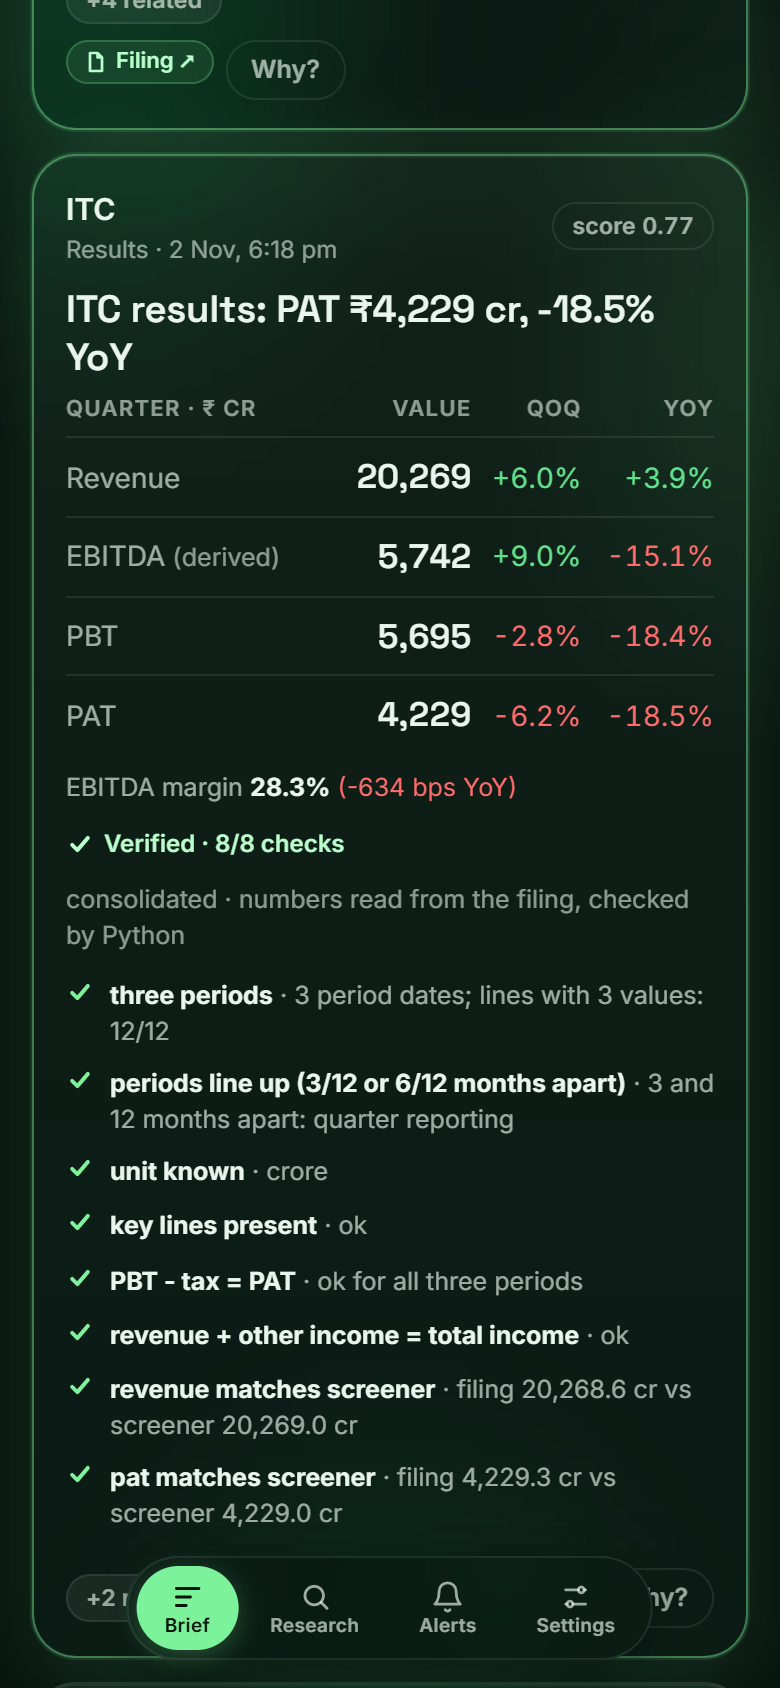
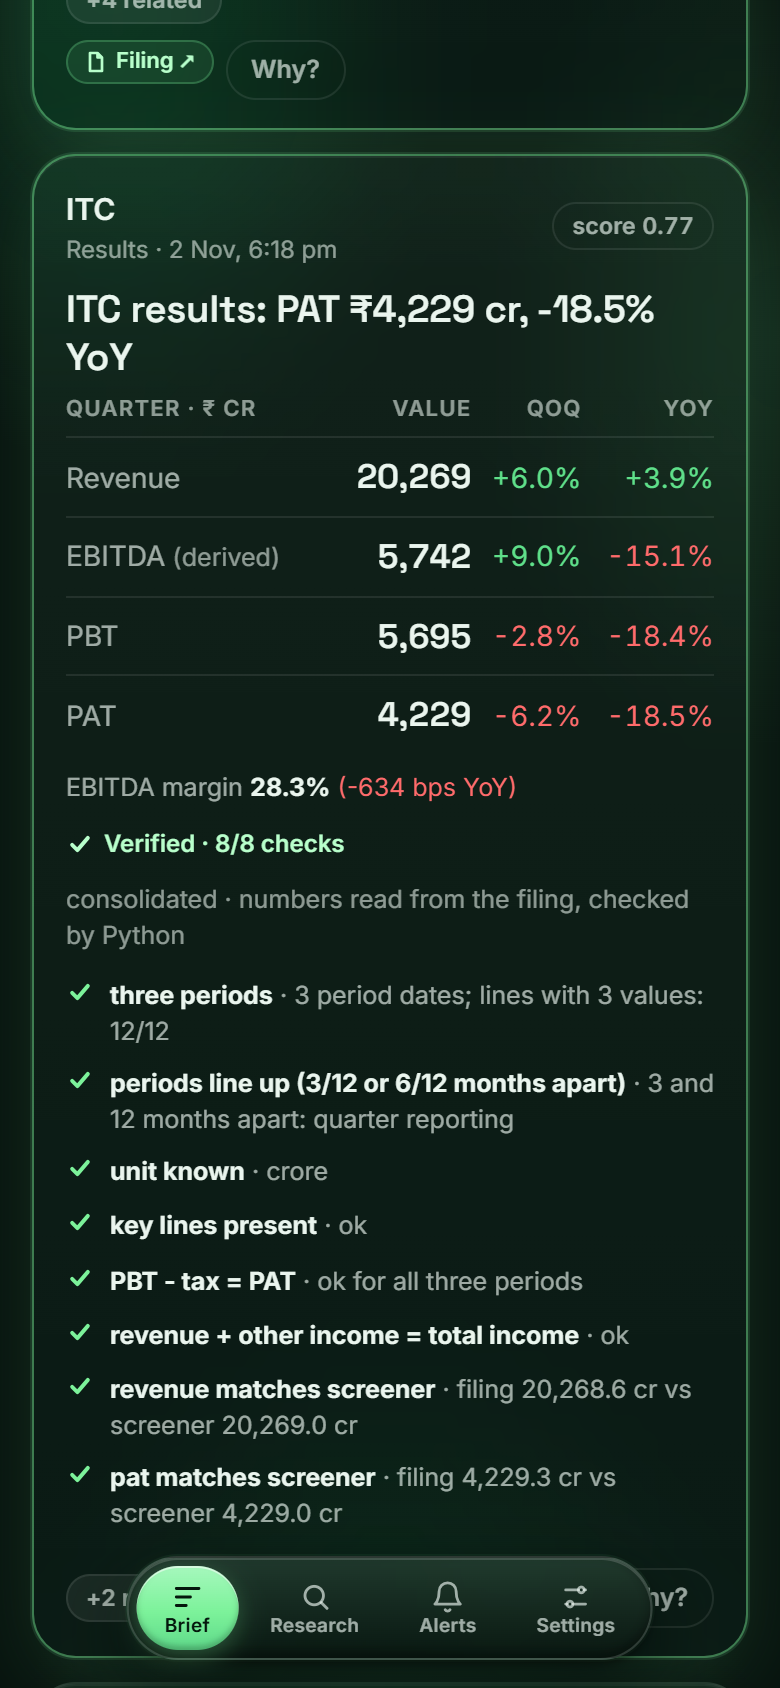
Bottom bar with depth: lit top edge, shaded underside, lift shadow, raised pill

Changed region(s): [[0.1538, 0.9242, 0.5538, 0.9858], [0.7385, 0.9242, 0.8308, 0.955]]

diff --git a/frontend/src/styles.css b/frontend/src/styles.css
@@ -137,17 +137,24 @@ h1, h2, h3 { margin: 0; font-weight: 600; }
   bottom: calc(var(--safe-bottom) + 14px);
   display: flex; gap: 2px; padding: 4px;
   border-radius: var(--pill);
-  background: rgba(10, 24, 18, 0.82);
-  border: 1px solid var(--line);
+  background: linear-gradient(180deg, rgba(34, 58, 46, 0.92), rgba(9, 22, 16, 0.94));
+  border: 1px solid rgba(255, 255, 255, 0.14);
   backdrop-filter: blur(24px) saturate(150%); -webkit-backdrop-filter: blur(24px) saturate(150%);
-  box-shadow: 0 10px 28px rgba(0,0,0,0.4);
+  box-shadow:
+    inset 0 1px 0 rgba(255, 255, 255, 0.16),      /* lit top edge */
+    inset 0 -2px 6px rgba(0, 0, 0, 0.35),         /* shaded underside */
+    0 2px 4px rgba(0, 0, 0, 0.35),                /* contact shadow */
+    0 14px 34px rgba(0, 0, 0, 0.55),              /* lift */
+    0 0 0 1px rgba(124, 242, 154, 0.06);
 }
 .nav button {
   position: relative; display: flex; align-items: center; gap: 7px;
   height: 46px; padding: 0 15px; border-radius: var(--pill); color: var(--text-2); font-size: 13.5px; font-weight: 600;
 }
 .nav button[aria-current="page"] { color: var(--mint-ink); }
-.nav .pill-bg { position: absolute; inset: 0; border-radius: var(--pill); background: var(--mint); z-index: -1; box-shadow: 0 3px 12px rgba(124, 242, 154, 0.25); }
+.nav .pill-bg { position: absolute; inset: 0; border-radius: var(--pill); z-index: -1;
+  background: linear-gradient(180deg, #a6f8bd 0%, var(--mint) 55%, #5fd98a 100%);
+  box-shadow: inset 0 1px 0 rgba(255, 255, 255, 0.55), inset 0 -2px 3px rgba(4, 23, 12, 0.25), 0 4px 12px rgba(124, 242, 154, 0.28); }
 .nav svg { width: 17px; height: 17px; }
 .nav button { flex-direction: column; justify-content: center; gap: 1px; height: 42px; padding: 0 14px; font-size: 9.5px; }
 .nav .label { display: block; font-weight: 600; letter-spacing: .02em; line-height: 1.1; }
